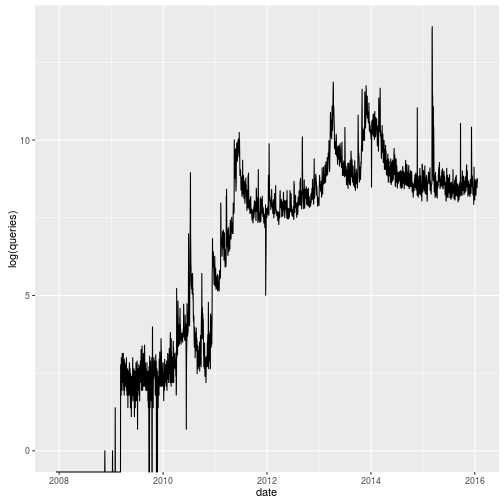
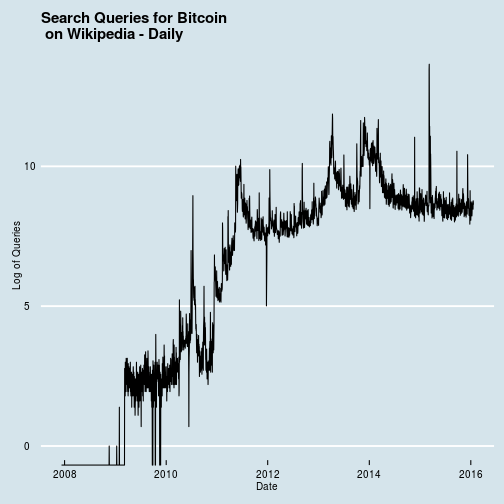
figure

diff --git a/_posts/2016-07-19-Wikipedia-Search.md b/_posts/2016-07-19-Wikipedia-Search.md
@@ -73,13 +73,20 @@ link_str_replace = function(x, y){
 
 
 links = llply(BTC_WIKI.dates, link_str_replace)
-kable(head(links, 5))
+head(links, 3)
 {% endhighlight %}
 
 
 
 {% highlight text %}
-## Error in kable_markdown(x = structure("http://stats.grok.se/json/en/201607/Bitcoin", .Dim = c(1L, : the table must have a header (column names)
+## [[1]]
+## [1] "http://stats.grok.se/json/en/201607/Bitcoin"
+## 
+## [[2]]
+## [1] "http://stats.grok.se/json/en/201606/Bitcoin"
+## 
+## [[3]]
+## [1] "http://stats.grok.se/json/en/201605/Bitcoin"
 {% endhighlight %}
 
 Now we have a list of viable links. 
@@ -136,18 +143,7 @@ p = ggplot(data = wiki.get.df, aes(x=date, y=log(queries)))
 p = p + geom_line(data = wiki.get.df, aes(y = log(queries)))
 p = p + theme_economist() + scale_color_economist() + 
   labs(x = "Date", y = "Log of Queries", title = "Search Queries for Bitcoin \n on Wikipedia - Daily")
-{% endhighlight %}
-
-
-
-{% highlight text %}
-## Error in eval(expr, envir, enclos): could not find function "theme_economist"
-{% endhighlight %}
-
-
-
-{% highlight r %}
 plot(p)
 {% endhighlight %}
 
-![plot of chunk plot](/blogfigure/source/2016-07-19-Wikipedia-Search/plot-1.png)
+<img src="/blogfigure/source/2016-07-19-Wikipedia-Search/plot-1.png" title="plot of chunk plot" alt="plot of chunk plot" style="display: block; margin: auto;" />
